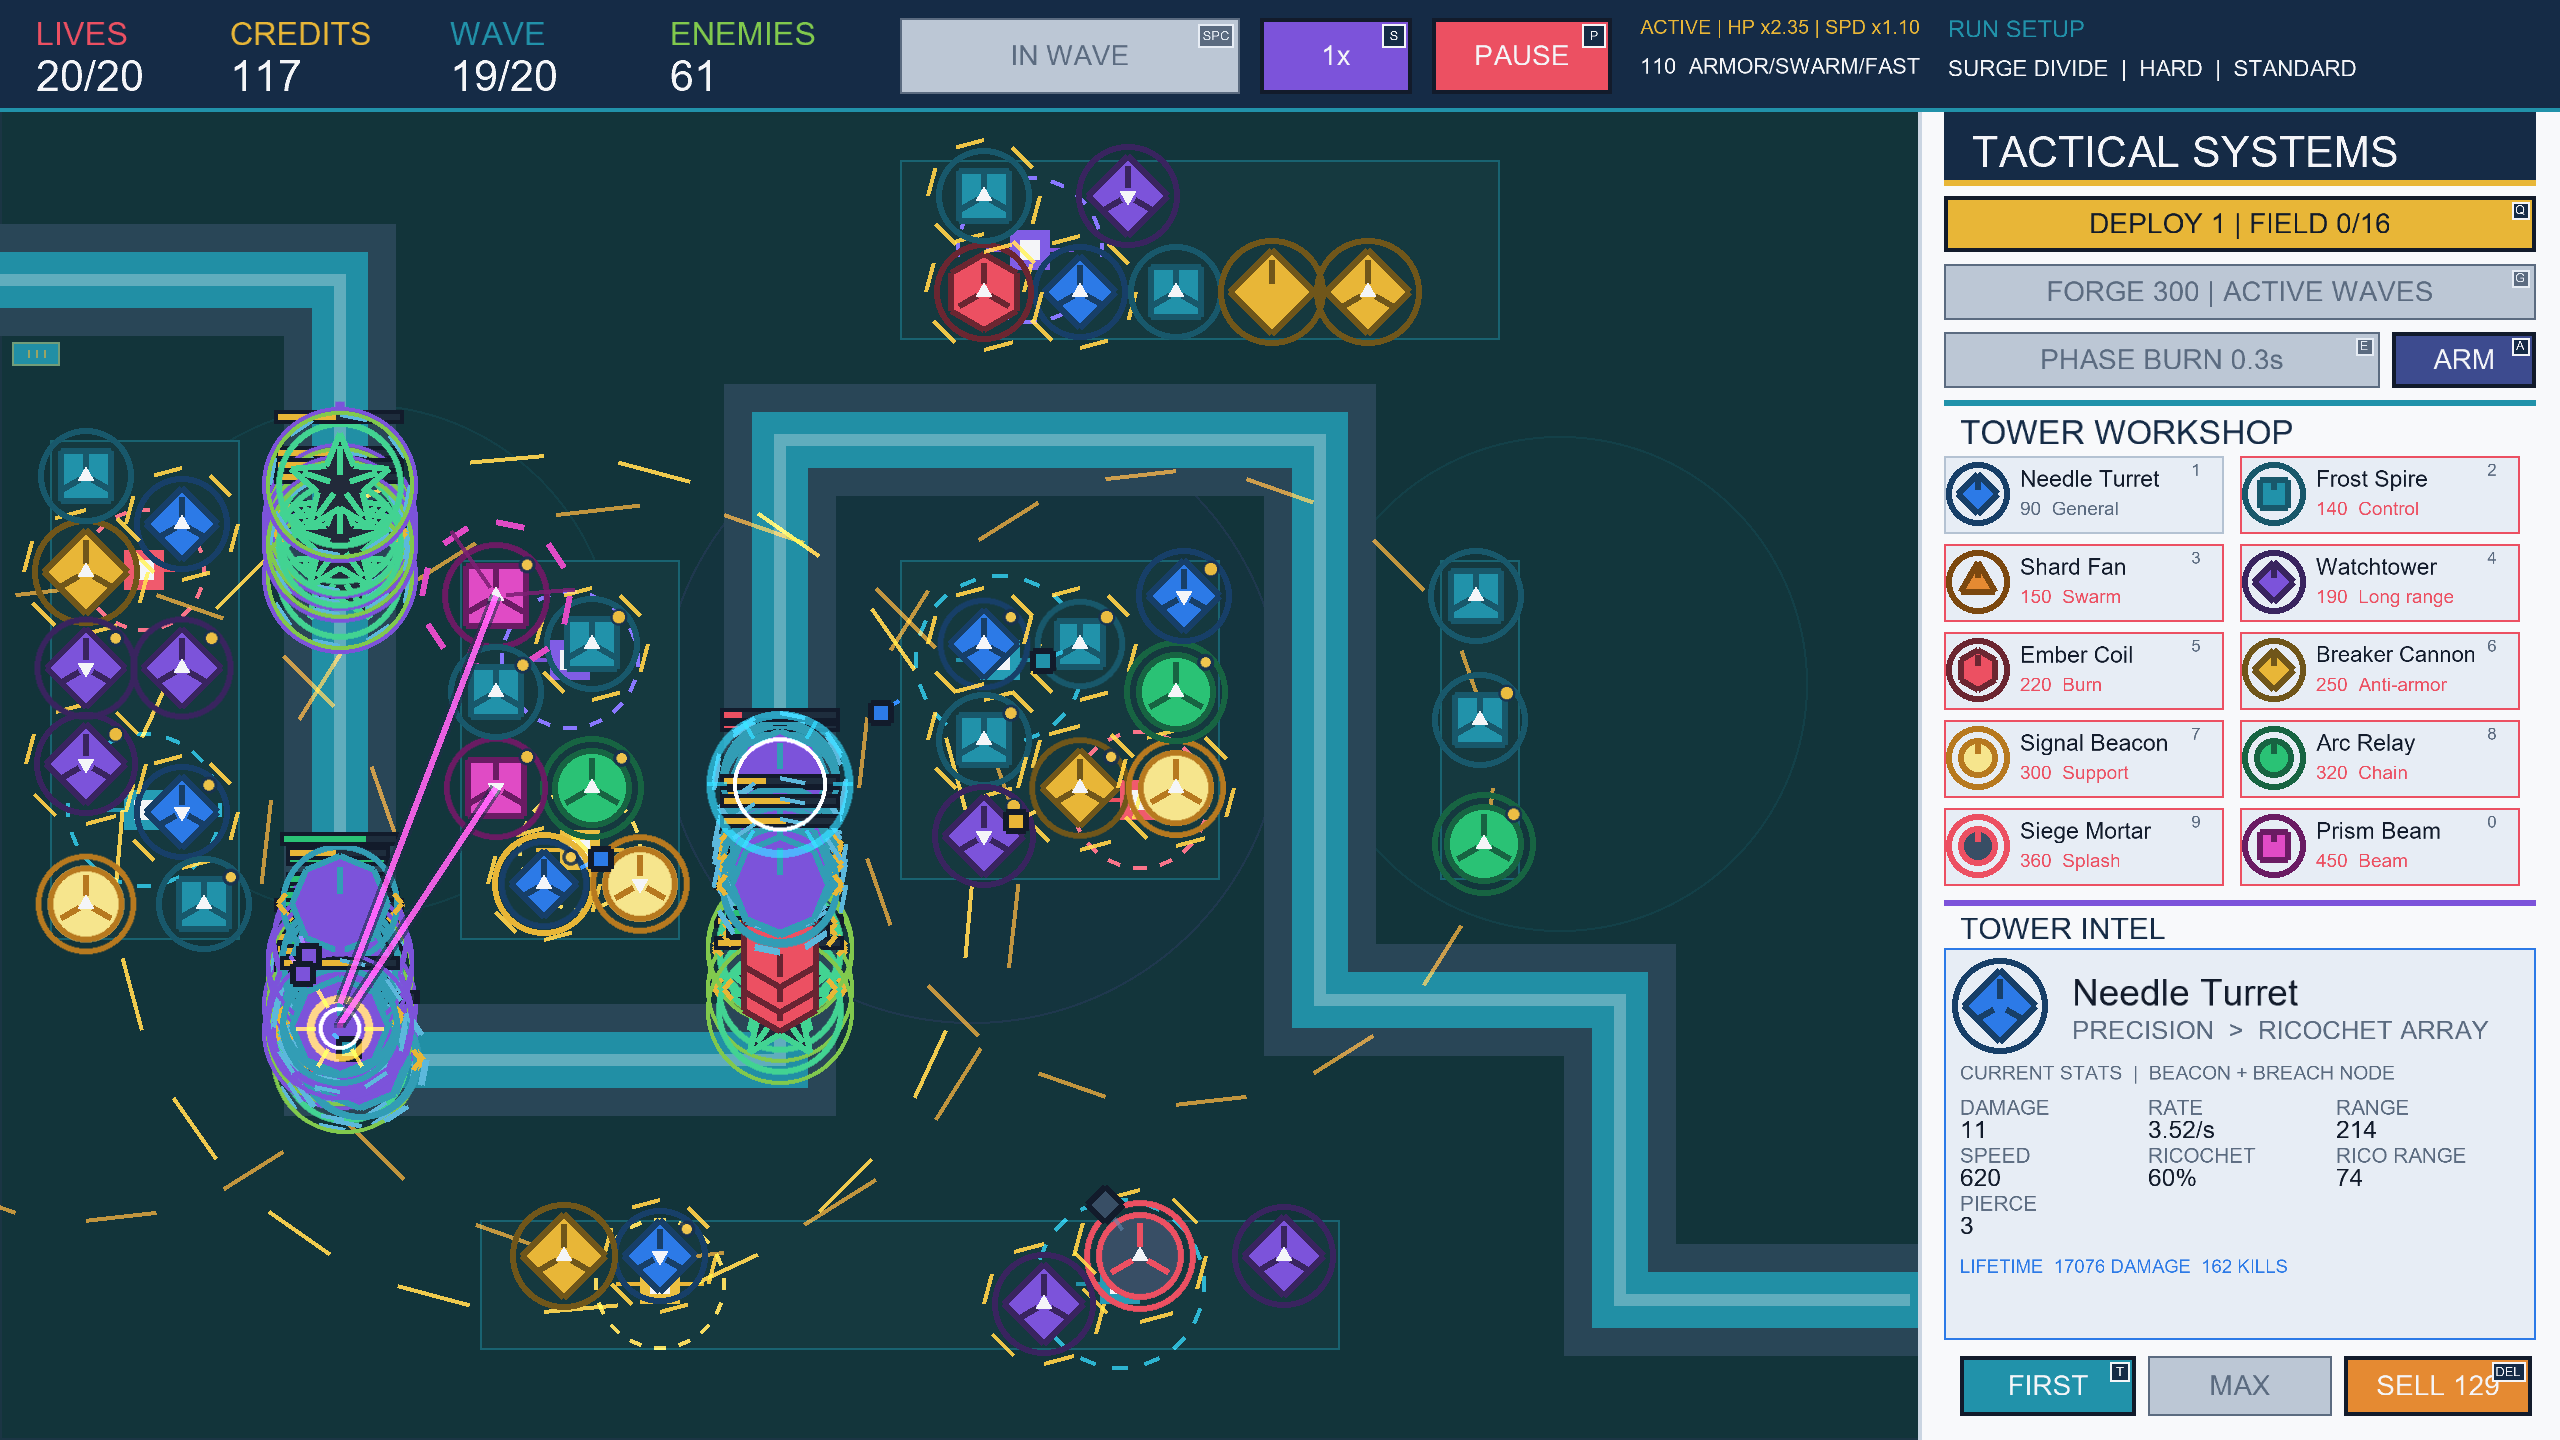
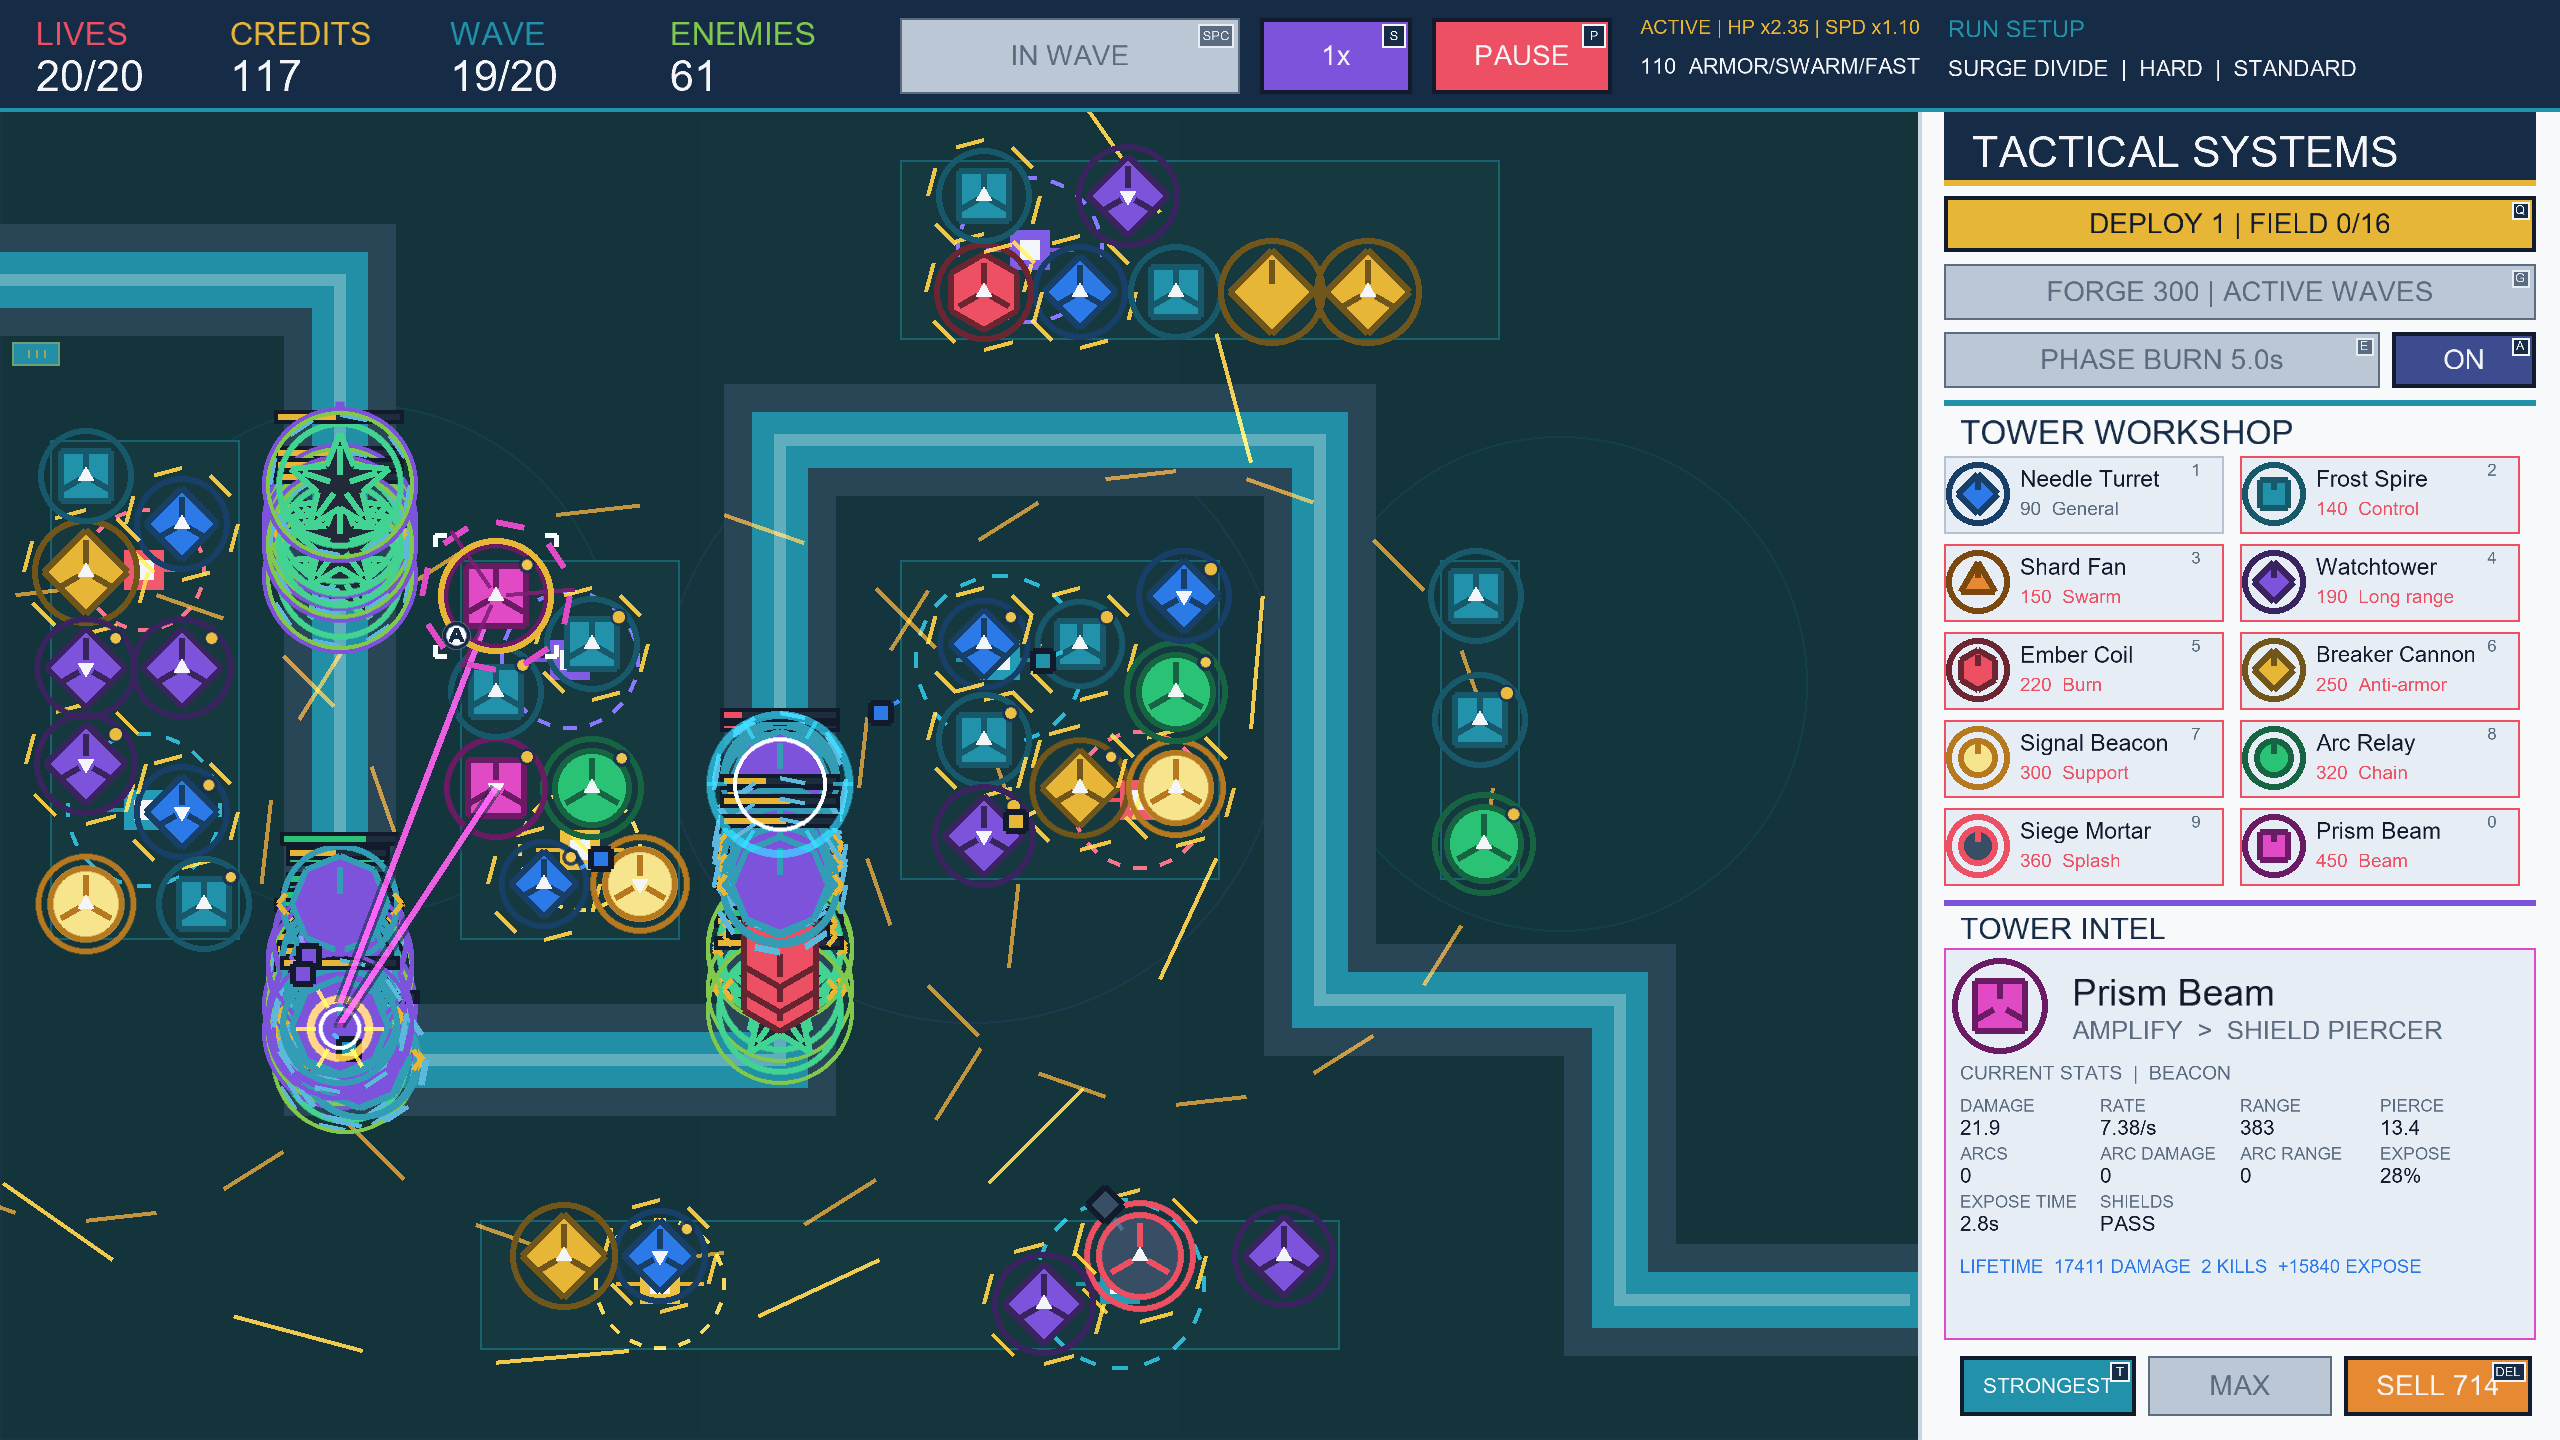
Show active tactics in itch marketing art

diff --git a/src/MinimalBastion/Diagnostics/MarketingCaptureGame.cs b/src/MinimalBastion/Diagnostics/MarketingCaptureGame.cs
@@ -90,8 +90,9 @@ public sealed class MarketingCaptureGame : Game
         var surge = BuildActiveSession(content, "relay_divide", "hard", "standard",
             AutoPlayerStrategy.Synergy, 9256, 19, minimumSeconds: 12f,
             minimumLeadingProgress: 0.45f, minimumMiddleEnemies: 8);
-        SelectPoweredTower(surge);
+        var featuredProtocolTower = StageActiveSystems(surge);
         CaptureGameplay("04-surge-divide-nodes.png", ui, surge);
+        ClearActiveSystems(surge, featuredProtocolTower.Id);
 
         var gauntlet = BuildActiveSession(content, "foundry_loop", "normal", "close_quarters",
             AutoPlayerStrategy.Synergy, 6841, 14, minimumSeconds: 12f, requireSignalCarrier: true);
@@ -211,14 +212,28 @@ public sealed class MarketingCaptureGame : Game
         session.HandleInspectionInput(Pointer(tower.Position, leftPressed: true));
     }
 
-    private static void SelectPoweredTower(GameSession session)
+    private static Towers.TowerInstance StageActiveSystems(GameSession session)
     {
         var tower = session.Towers
-            .Where(candidate => session.Map.GetPowerBuff(candidate.Position).IsPowered)
-            .OrderByDescending(candidate => candidate.LevelIndex)
+            .Where(candidate => !candidate.IsSupport)
+            .OrderByDescending(candidate => candidate.IsOverdriven)
+            .ThenByDescending(candidate => session.Map.GetPowerBuff(candidate.Position).IsPowered)
+            .ThenByDescending(candidate => candidate.LevelIndex)
             .ThenBy(candidate => candidate.Id)
-            .FirstOrDefault() ?? session.Towers.OrderByDescending(candidate => candidate.LevelIndex).First();
+            .First();
+        tower.ActivateOverdrive();
+        if (session.AutoOverdriveTowerId != tower.Id)
+            session.TryToggleAutoProtocol(tower.Id);
         session.HandleInspectionInput(Pointer(tower.Position, leftPressed: true));
+        return tower;
+    }
+
+    private static void ClearActiveSystems(GameSession session, int autoTowerId)
+    {
+        if (session.AutoOverdriveTowerId == autoTowerId)
+            session.TryToggleAutoProtocol(autoTowerId);
+        foreach (var tower in session.Towers)
+            tower.ClearOverdrive();
     }
 
     private static void ClearSelection(GameSession session) =>

diff --git a/marketing/itch-io/itch-page-copy.md b/marketing/itch-io/itch-page-copy.md
@@ -1,0 +1,43 @@
+# Itch.io page copy
+
+## Short description or tagline
+
+A colorful tactical tower-defense game with branching upgrades, four campaigns, endless play, and direct two-player online co-op.
+
+## Description
+
+**Minimal Bastion** is a colorful geometric tower-defense game about building compact kill zones, adapting under pressure, and holding the line with a defense that is entirely your own.
+
+Every arena asks a different strategic question. Fold short-range towers around tight corners, cover isolated lanes with long-range fire, exploit powerful Surge Nodes, and rebuild your plan as armored, shielded, regenerating, elite, and boss enemies enter the formation.
+
+### Build a specialized defense
+
+- Command 10 distinct towers with clear battlefield roles.
+- Choose between two Tier 2 doctrines, then develop each tower into one of four Tier 3 combinations.
+- Promote proven towers into powerful Apex forms during Mastery and Endless play.
+- Set targeting priorities for fast, armored, support, strong, or route-critical enemies.
+- Use Pulse Plates, the Charge Forge, automatic Protocols, and map-specific Surge Nodes to reinforce your core strategy.
+
+### Four authored campaigns
+
+Each arena has its own route geometry, build spaces, economy, visual identity, and enemy schedule. Survive the 20-wave campaign, enter a harder 10-wave Mastery sequence, then continue into generated Endless waves on the same battlefield.
+
+Choose from four difficulty levels and several directives:
+
+- **Standard** — the complete tower roster and every tactical system.
+- **Signal Gauntlet** — support and disruption carriers strengthen enemies or interfere with towers.
+- **Core Six** — a focused six-tower roster with a different economy and tighter strategic limits.
+- **Entrenched** — permanent commitments with no Plates, Forge, Protocols, or selling.
+- **Sandbox Lab** — unlimited resources and precise controls for testing towers, upgrades, enemies, and waves.
+
+### Play solo or defend together
+
+Play alone or host a private two-player online co-op match. Credits, lives, defenses, upgrades, targeting, and tactical systems are shared, and both players can operate every tower. Reconnect support restores a guest to the host's authoritative match state after a temporary disconnect.
+
+Online co-op uses a direct TCP connection on port `28741`. Internet hosts may need to allow the game through their firewall and forward that port, or use a peer VPN such as Tailscale or ZeroTier.
+
+### Learn, refine, and push farther
+
+The discovery-driven Tactical Library reveals towers, upgrades, enemies, status effects, maps, and systems as you encounter them. Run History preserves detailed results and final defense layouts, while medals, achievements, and career records provide new goals across difficulties, directives, Mastery, and Endless play.
+
+This release is a free public playtest. Feedback on balance, clarity, co-op reliability, and the strategies that emerge is welcome.
